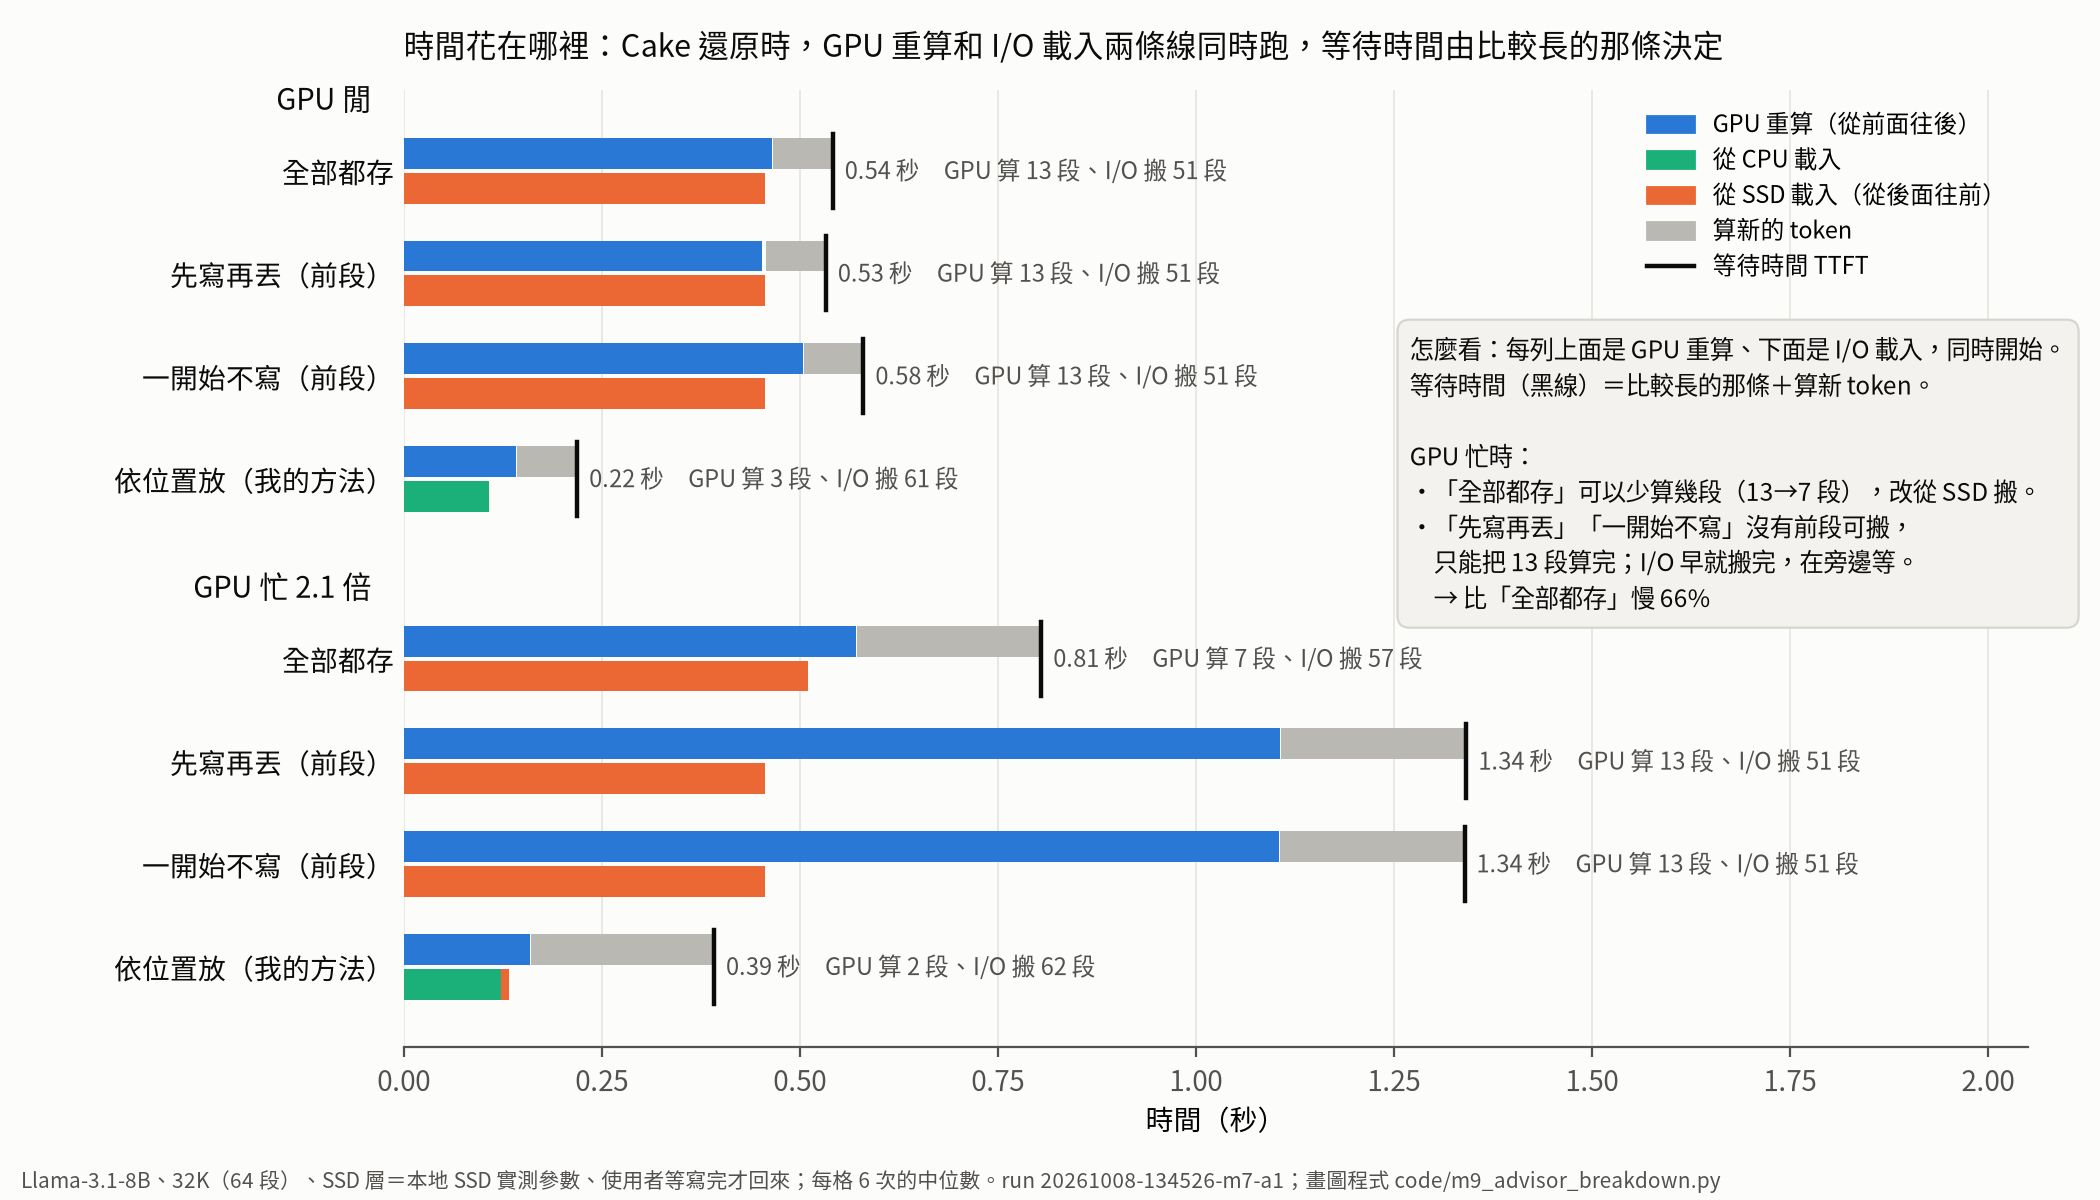
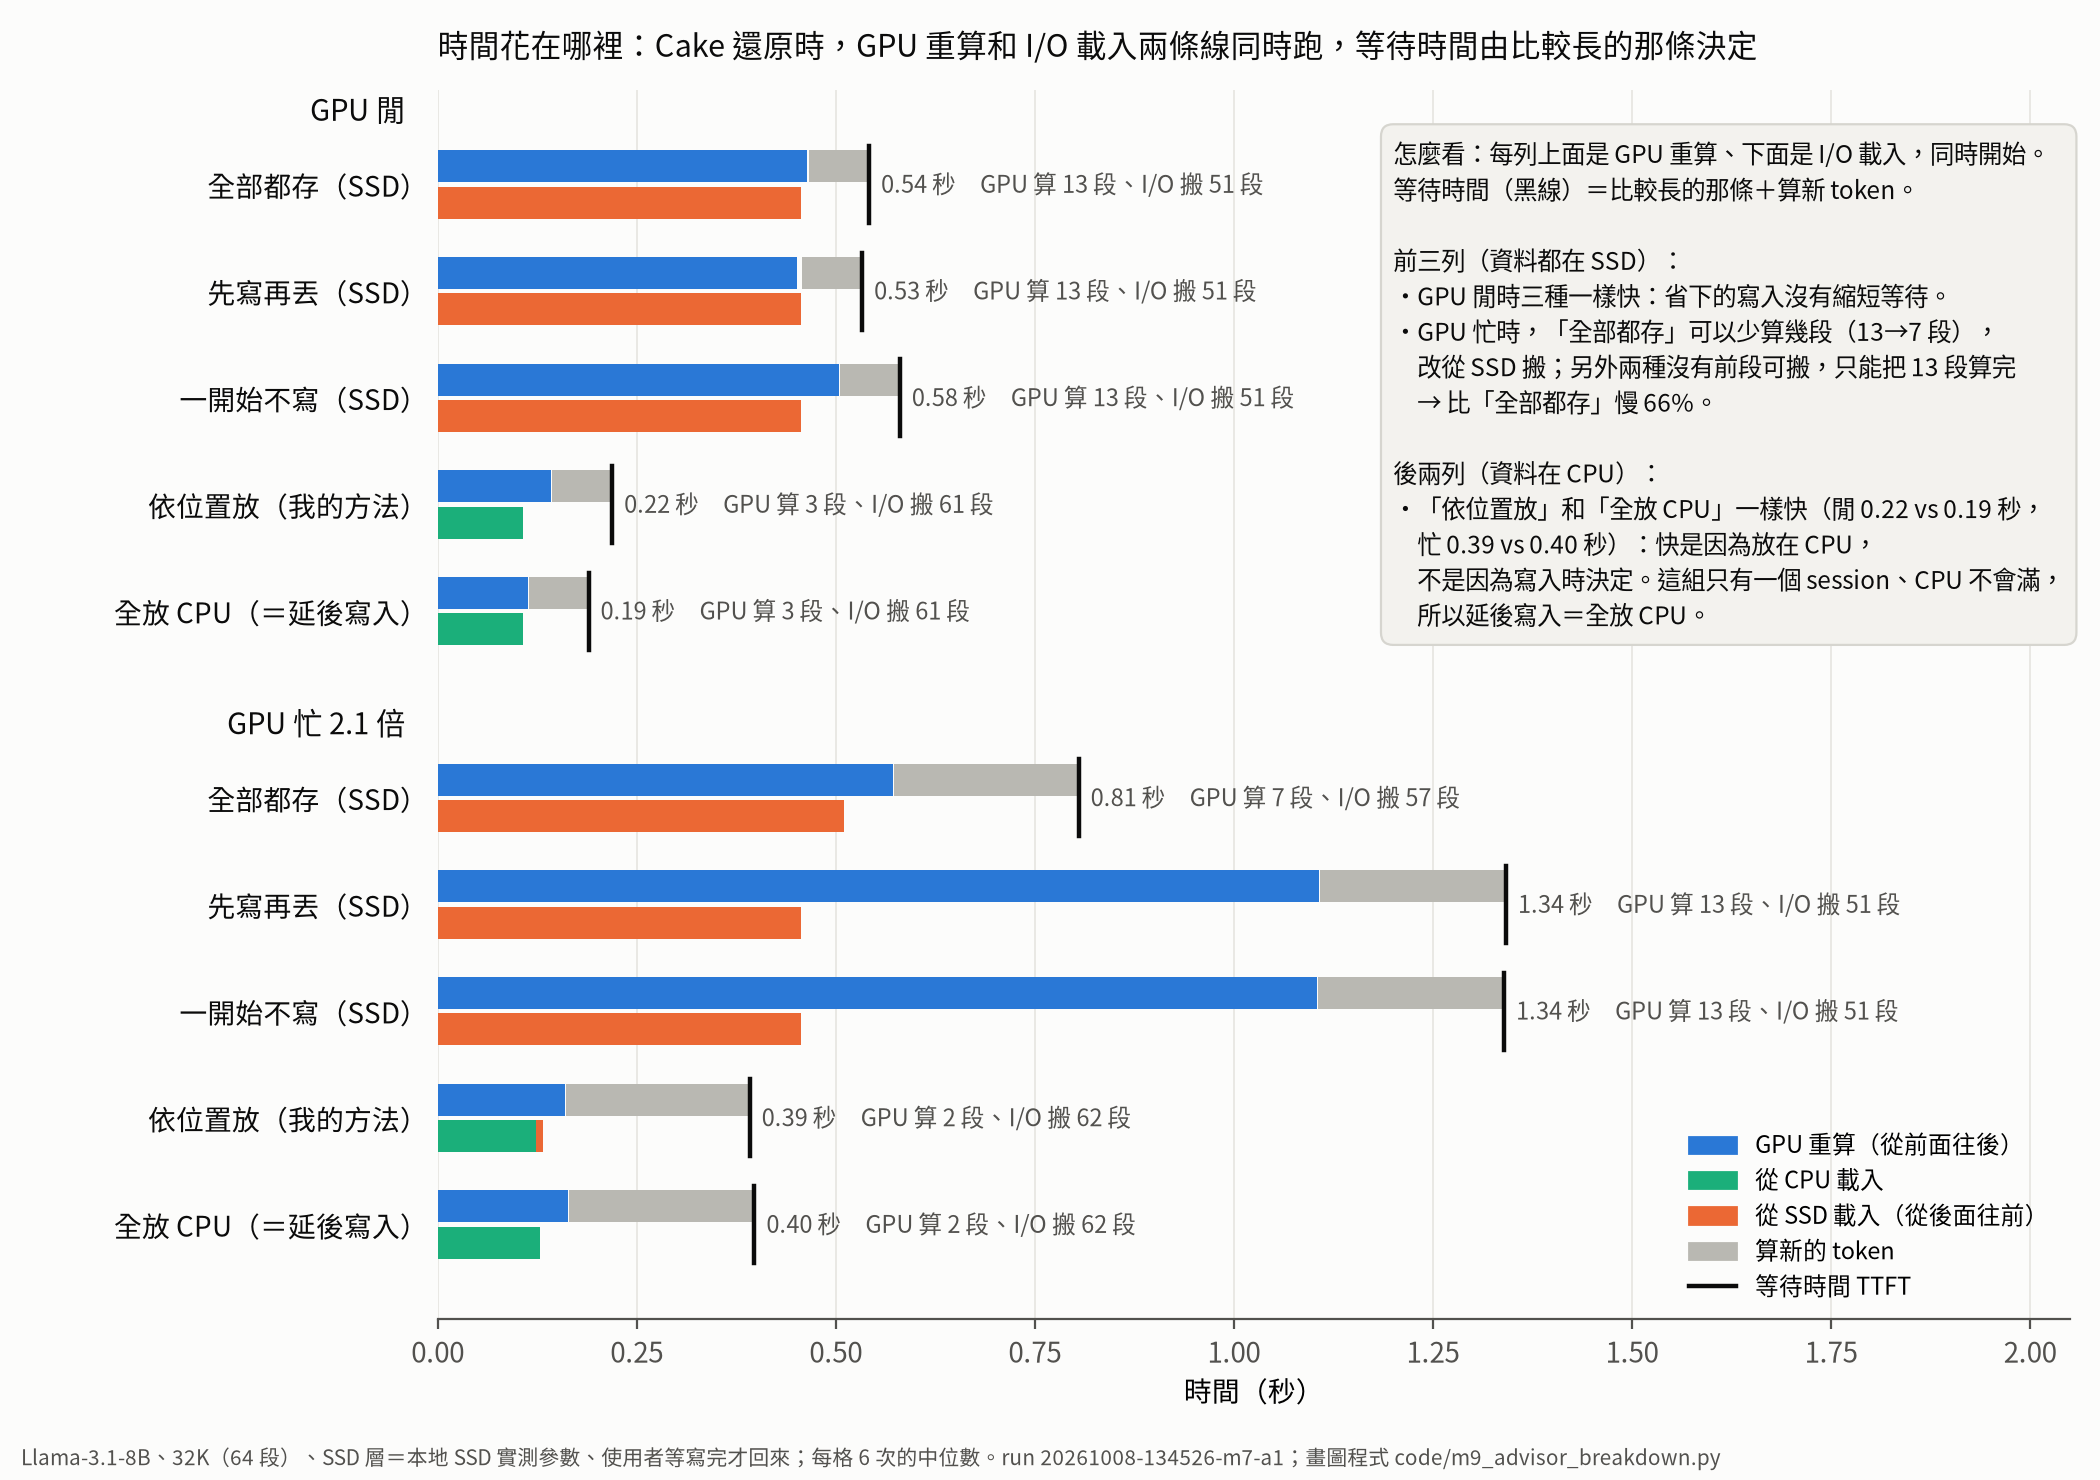
results(m9): 時間拆解圖加上「全放 CPU（＝延後寫入）」對照，避免誤讀成依位置放勝出
Claude-Session: https://claude.ai/code/session_01DSvhi2Kb7t9pTCccJpveLE

diff --git a/code/m9_advisor_breakdown.py b/code/m9_advisor_breakdown.py
@@ -34,7 +34,8 @@ plt.rcParams.update({"font.family": [font_manager.FontProperties(fname=FP).get_n
 C_GPU, C_SSD, C_CPU, C_NEW = "#2a78d6", "#eb6834", "#1baf7a", "#b9b8b2"   # 參考調色盤前三格＋中性灰
 INK, INK2 = "#0b0b0b", "#52514e"
 
-STRATS = [("S0", "全部都存"), ("S2a", "先寫再丟（前段）"), ("S3", "一開始不寫（前段）"), ("S5", "依位置放（我的方法）")]
+STRATS = [("S0", "全部都存（SSD）"), ("S2a", "先寫再丟（SSD）"), ("S3", "一開始不寫（SSD）"), ("S5", "依位置放（我的方法）"),
+          ("CPUall", "全放 CPU（＝延後寫入）")]
 GPUS = [("idle", "GPU 閒"), ("busy2", "GPU 忙 2.1 倍")]
 
 
@@ -47,7 +48,7 @@ def main():
         meet=("meet", "median"), n_cpu=("n_load_cpu", "median"), n_ssd=("n_load_ssd", "median"),
         n=("ttft", "size"), src_run_id=("run_id", "first")).reset_index()
 
-    fig, ax = plt.subplots(figsize=(10.5, 6.0))
+    fig, ax = plt.subplots(figsize=(10.5, 7.4))
     y, ticks, labels, rows = 0.0, [], [], []
     h = 0.30
     for gs, gname in GPUS:
@@ -77,14 +78,21 @@ def main():
     # 重點標註：GPU 忙時，一開始不寫只能把前段全部重算
     r3 = g[(g.gpu_state == "busy2") & (g.strategy == "S3")].iloc[0]
     r0 = g[(g.gpu_state == "busy2") & (g.strategy == "S0")].iloc[0]
-    ax.text(1.27, ticks[3] + 0.05,
+    pick = lambda gs, st: g[(g.gpu_state == gs) & (g.strategy == st)].ttft.iloc[0]  # noqa: E731
+    ax.text(1.20, ticks[0] + 0.45,
             "怎麼看：每列上面是 GPU 重算、下面是 I/O 載入，同時開始。\n"
             "等待時間（黑線）＝比較長的那條＋算新 token。\n\n"
-            "GPU 忙時：\n"
-            f"・「全部都存」可以少算幾段（{int(g[(g.gpu_state == 'idle') & (g.strategy == 'S0')].meet.iloc[0])}→{int(r0.meet)} 段），改從 SSD 搬。\n"
-            f"・「先寫再丟」「一開始不寫」沒有前段可搬，\n　只能把 {int(r3.meet)} 段算完；I/O 早就搬完，在旁邊等。\n"
-            f"　→ 比「全部都存」慢 {100 * (r3.ttft / r0.ttft - 1):.0f}%",
-            va="center", ha="left", fontsize=8.8, color=INK, linespacing=1.45,
+            "前三列（資料都在 SSD）：\n"
+            "・GPU 閒時三種一樣快：省下的寫入沒有縮短等待。\n"
+            f"・GPU 忙時，「全部都存」可以少算幾段（{int(g[(g.gpu_state == 'idle') & (g.strategy == 'S0')].meet.iloc[0])}→{int(r0.meet)} 段），\n"
+            f"　改從 SSD 搬；另外兩種沒有前段可搬，只能把 {int(r3.meet)} 段算完\n"
+            f"　→ 比「全部都存」慢 {100 * (r3.ttft / r0.ttft - 1):.0f}%。\n\n"
+            "後兩列（資料在 CPU）：\n"
+            f"・「依位置放」和「全放 CPU」一樣快（閒 {pick('idle', 'S5'):.2f} vs {pick('idle', 'CPUall'):.2f} 秒，\n"
+            f"　忙 {pick('busy2', 'S5'):.2f} vs {pick('busy2', 'CPUall'):.2f} 秒）：快是因為放在 CPU，\n"
+            "　不是因為寫入時決定。這組只有一個 session、CPU 不會滿，\n"
+            "　所以延後寫入＝全放 CPU。",
+            va="top", ha="left", fontsize=8.8, color=INK, linespacing=1.45,
             bbox=dict(boxstyle="round,pad=0.5", fc="#f3f2ee", ec="#d6d5cf", lw=0.8))
     ax.set_yticks(ticks, labels)
     ax.tick_params(axis="y", length=0)
@@ -94,7 +102,7 @@ def main():
     ax.legend(handles=[Patch(color=C_GPU, label="GPU 重算（從前面往後）"), Patch(color=C_CPU, label="從 CPU 載入"),
                        Patch(color=C_SSD, label="從 SSD 載入（從後面往前）"), Patch(color=C_NEW, label="算新的 token"),
                        plt.Line2D([], [], color=INK, lw=1.6, label="等待時間 TTFT")],
-              loc="upper right", frameon=False, fontsize=8.5, ncol=1)
+              loc="lower right", frameon=False, fontsize=8.5, ncol=1)
     ax.set_title("時間花在哪裡：Cake 還原時，GPU 重算和 I/O 載入兩條線同時跑，等待時間由比較長的那條決定", loc="left",
                  fontsize=11, color=INK, pad=12)
     fig.text(0.01, 0.01, "Llama-3.1-8B、32K（64 段）、SSD 層＝本地 SSD 實測參數、使用者等寫完才回來；每格 6 次的中位數。"
